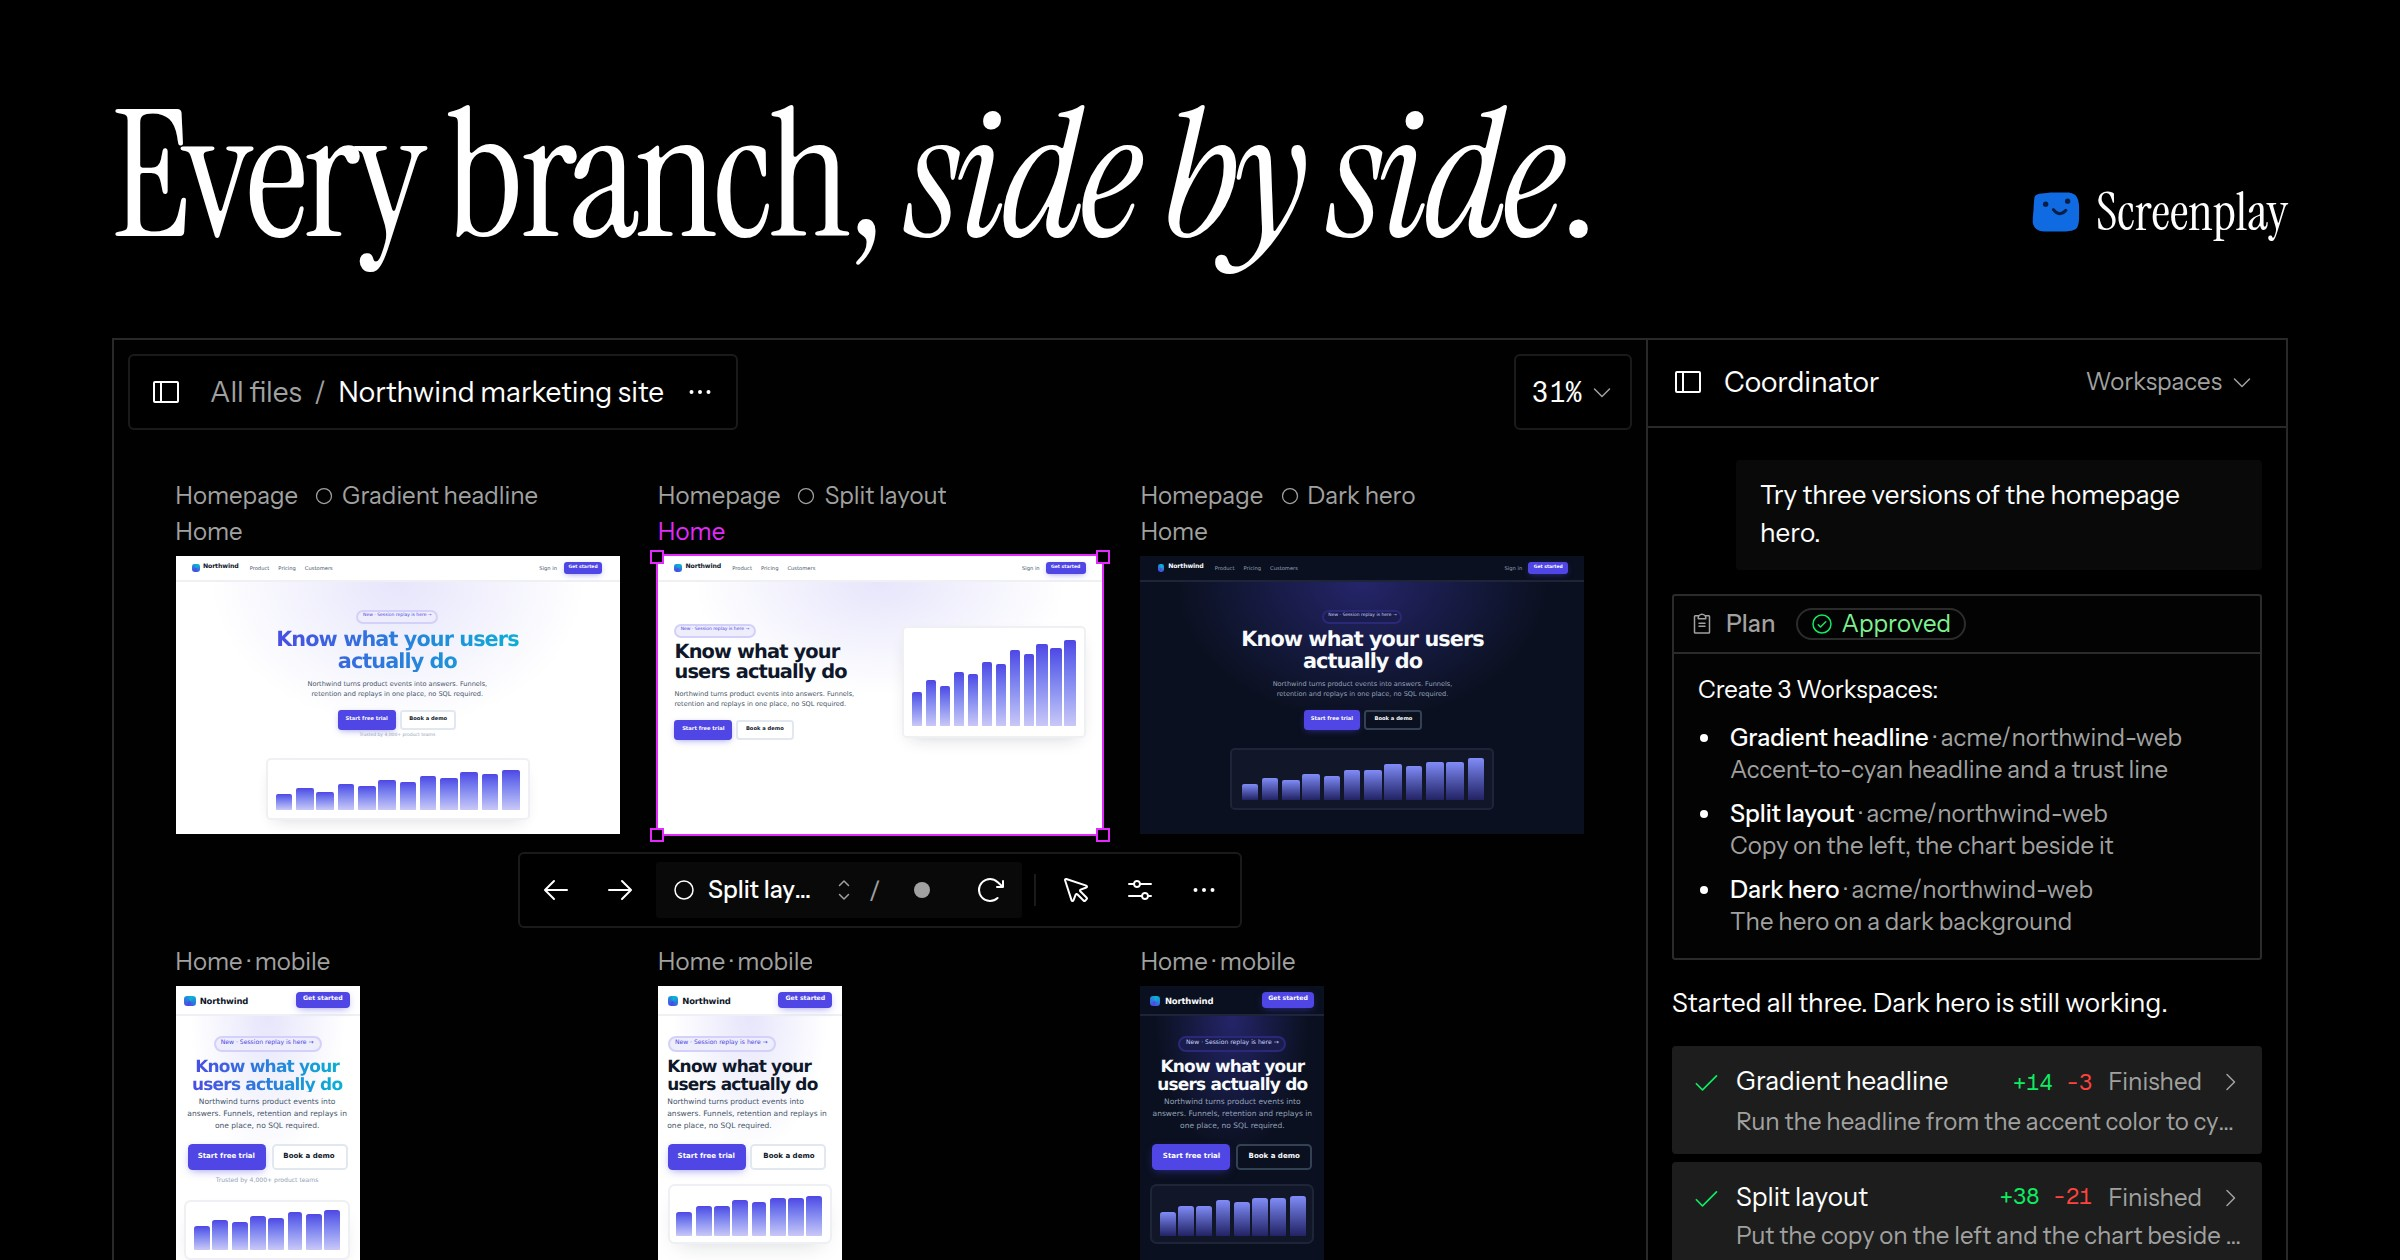
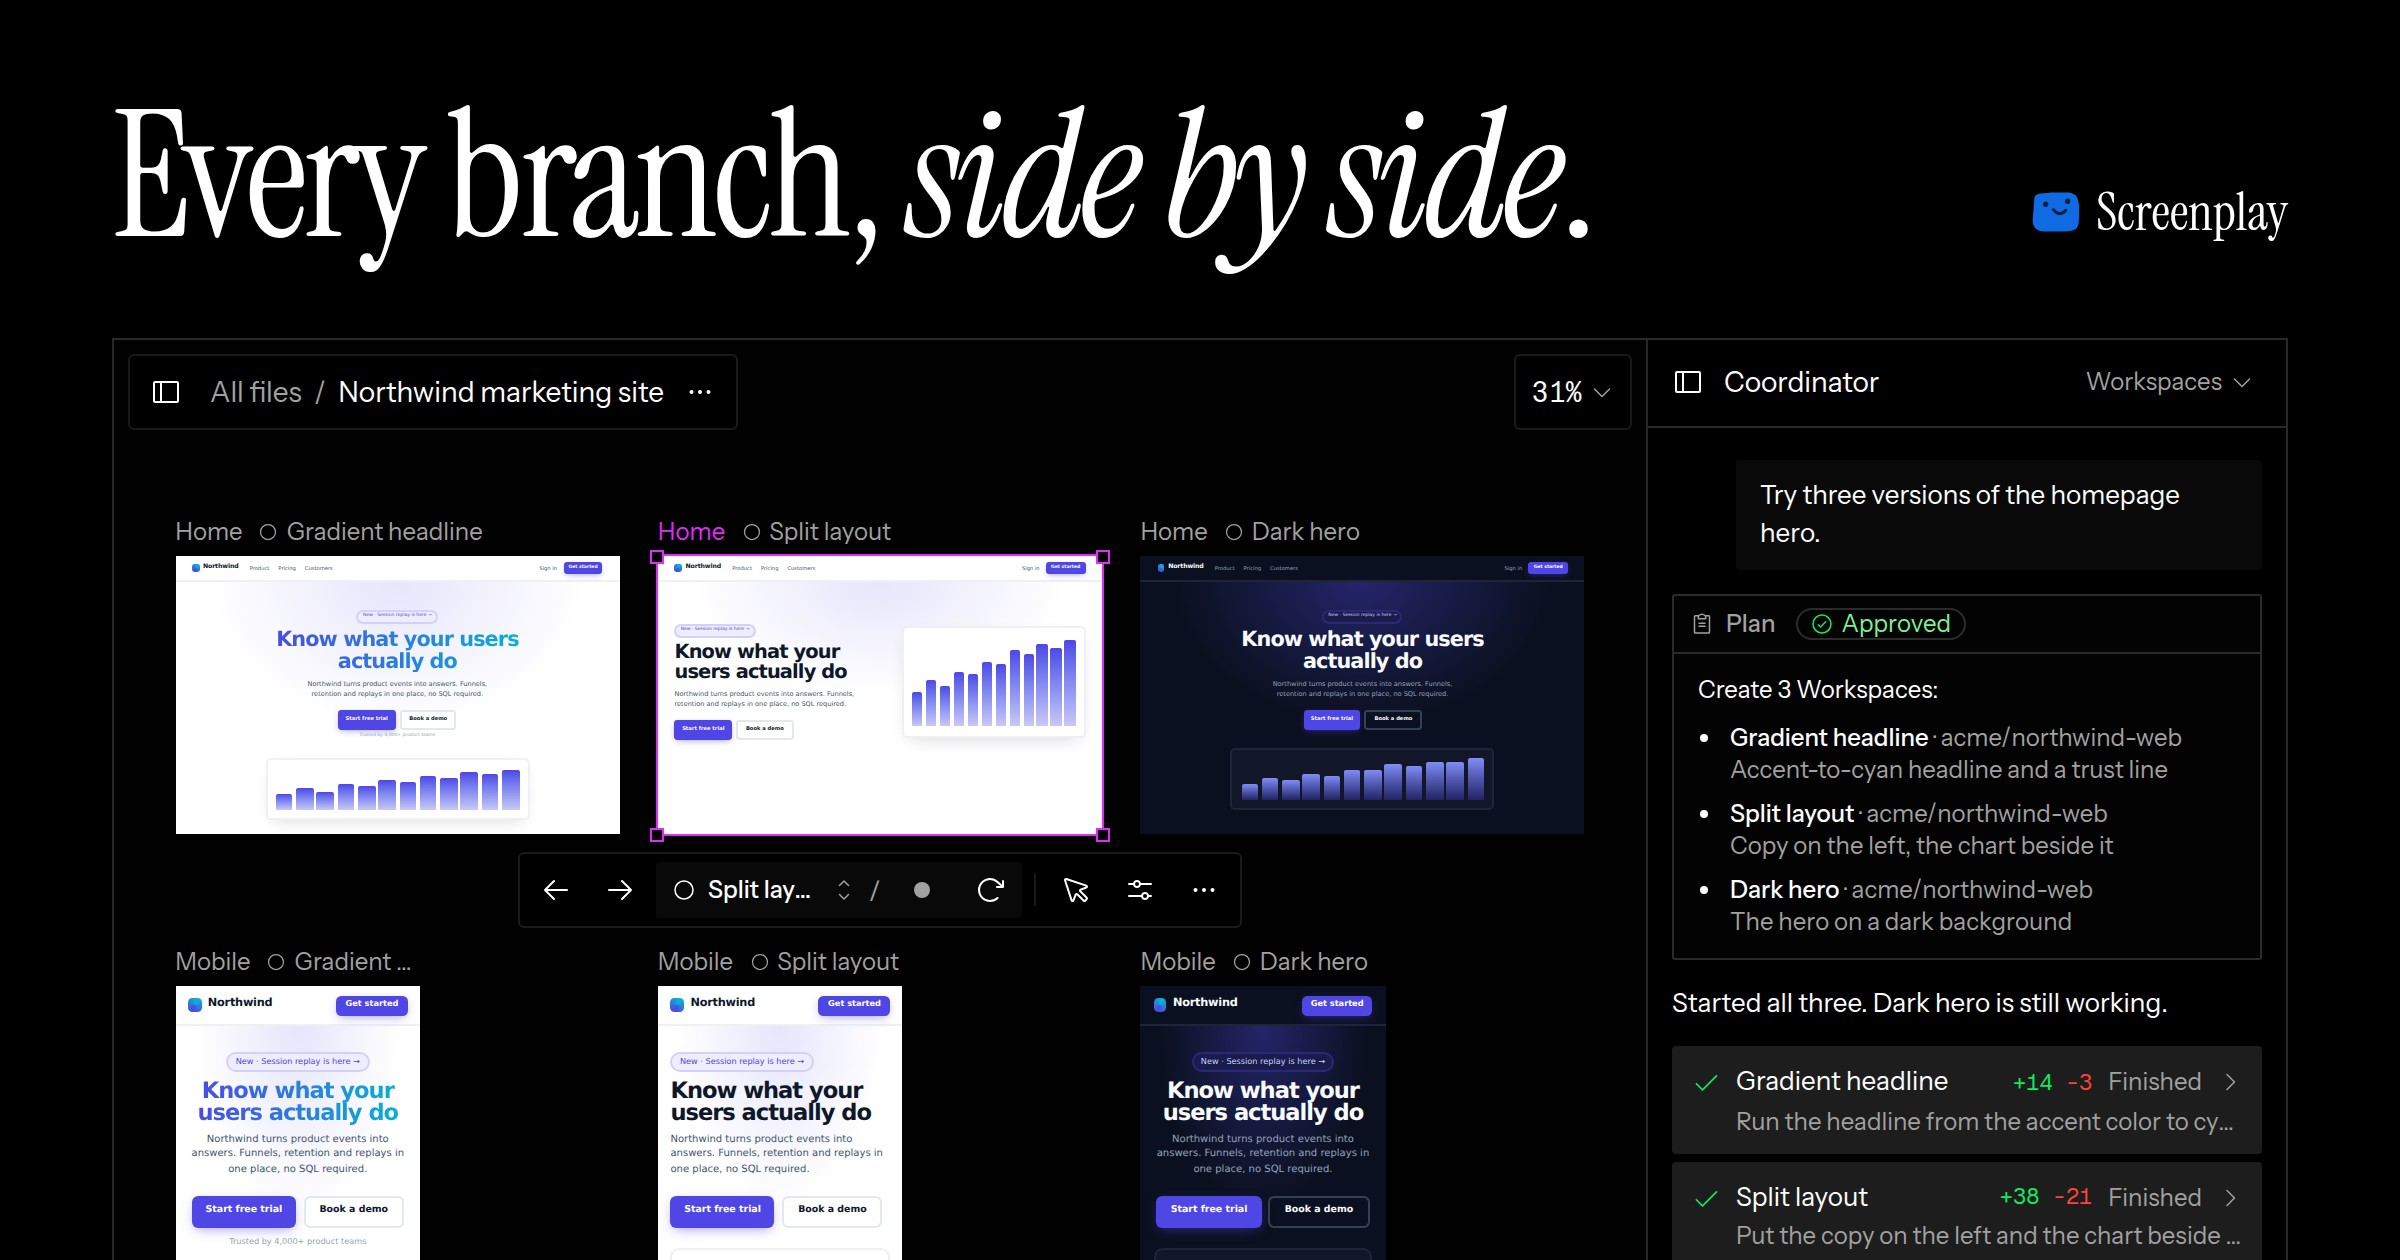
Label the homepage figures' frames the way the app does (#1238)
Frames on their own name their Workspace after their name, including the
phone frames; group titles stay only on real Groups (the step card's
desktop + mobile pairs). Phone frames widen to fit it, and drop out of
Fig. 1 on phones, where they're too narrow. Link preview recaptured.

Claude-Session: https://claude.ai/code/session_01YLh1t4qRbmoywTT2mf9EQv

diff --git a/apps/homepage/components/marketing/excerpts/canvas.tsx b/apps/homepage/components/marketing/excerpts/canvas.tsx
@@ -100,12 +100,14 @@ export function Diff({ add, del }: { add: number; del: number }) {
 
 /**
  * A frame on the canvas: its label above, the page inside. Selected, it gets
- * the canvas's magenta ring, handles and label. The first frame of a Group
- * carries the Group's title above its own.
+ * the canvas's magenta ring, handles and label. As in the app, a Group of two
+ * or more names its Workspace once, on the title over its first frame; a
+ * frame on its own names its Workspace after its name.
  */
 export function Frame({
   label,
   group,
+  workspace,
   selected,
   device = "desktop",
   className,
@@ -113,8 +115,11 @@ export function Frame({
   children,
 }: {
   label: string
-  /** The Group's title over its first frame: its name and Workspace. */
+  /** The Group's title over its first frame: its name and Workspace. Only
+   *  on a Group of two or more. */
   group?: [name: string, workspace: string]
+  /** The Workspace a frame on its own shows, after its name. */
+  workspace?: string
   selected?: boolean
   device?: "desktop" | "mobile"
   className?: string
@@ -132,13 +137,19 @@ export function Frame({
           className="bottom-full left-0 mb-6 max-w-full"
         />
       ) : null}
-      <div
-        className={cn(
-          "absolute bottom-full left-0 mb-1.5 truncate text-xs leading-none whitespace-nowrap",
-          selected ? "text-selection" : "text-muted-foreground"
-        )}
-      >
-        {label}
+      <div className="absolute bottom-full left-0 mb-1.5 flex max-w-full items-center gap-2 overflow-hidden text-xs leading-none whitespace-nowrap text-muted-foreground">
+        {/* The figures' names are short: kept whole, as a rounding error would
+            otherwise clip them to an ellipsis. */}
+        <span className={cn("shrink-0", selected && "text-selection")}>
+          {label}
+        </span>
+        {workspace ? (
+          // The name keeps its room; the Workspace truncates first.
+          <span className="flex min-w-10 shrink-[100] items-center gap-1">
+            <WorkspaceGlyph className="size-2.5" />
+            <span className="truncate">{workspace}</span>
+          </span>
+        ) : null}
       </div>
       <div
         className={cn(
@@ -522,14 +533,15 @@ const columns =
 /**
  * The hero's figure: one ask to the Coordinator and its three Workspaces,
  * side by side on the canvas, desktop over phone, with the selected one's
- * bar. The chat drops out on narrow screens, leaving the canvas.
+ * bar. The chat drops out on narrow screens, leaving the canvas, and phones
+ * drop the phone frames, too narrow there to name their Workspace.
  */
 export function CanvasExcerpt() {
   return (
     <div
       role="img"
       aria-label="The Screenplay canvas: three versions of the Northwind homepage hero running side by side, each in its own Workspace, with the Coordinator chat that started them on the right."
-      className="flex aspect-square w-full overflow-hidden border border-border bg-background text-foreground sm:aspect-[16/10] lg:aspect-[16/9.4]"
+      className="flex aspect-[4/3] w-full overflow-hidden border border-border bg-background text-foreground sm:aspect-[16/10] lg:aspect-[16/9.4]"
     >
       <div
         className={cn(
@@ -551,7 +563,7 @@ export function CanvasExcerpt() {
           <Frame
             key={v.title}
             label="Home"
-            group={["Homepage", v.title]}
+            workspace={v.title}
             selected={i === 1}
             className={cn(i === 2 && "max-sm:hidden")}
             style={{
@@ -577,10 +589,12 @@ export function CanvasExcerpt() {
         {versions.map((v, i) => (
           <Frame
             key={v.title}
-            label="Home · mobile"
+            label="Mobile"
+            workspace={v.title}
             device="mobile"
-            className={cn(i === 2 && "max-sm:hidden")}
-            style={{ left: `var(--l${i})`, top: "var(--phone)", width: "12%" }}
+            className="max-sm:hidden"
+            // Wide enough for its name and most of its Workspace's.
+            style={{ left: `var(--l${i})`, top: "var(--phone)", width: "16%" }}
           >
             <Northwind device="mobile" version={v.version} />
           </Frame>
@@ -607,7 +621,7 @@ export function FrameExcerpt() {
         <Frame
           key={v.title}
           label="Home"
-          group={["Homepage", v.title]}
+          workspace={v.title}
           selected={i === 0}
           style={{ left: i ? "52%" : "4%", top: "var(--top)", width: "44%" }}
         >

diff --git a/apps/homepage/components/marketing/excerpts/team.tsx b/apps/homepage/components/marketing/excerpts/team.tsx
@@ -180,7 +180,7 @@ export function TeamExcerpt() {
         <PeoplePill />
         <Frame
           label="Home"
-          group={["Homepage", "Hero gradient & trust line"]}
+          workspace="Hero gradient & trust line"
           selected
           style={{ left: 32, top: 84, width: 400 }}
         >
@@ -193,7 +193,7 @@ export function TeamExcerpt() {
         />
         <Frame
           label="Home"
-          group={["Homepage", "Main"]}
+          workspace="Main"
           style={{ left: 464, top: 84, width: 400 }}
         >
           <Northwind />

diff --git a/apps/homepage/components/marketing/excerpts/steps.tsx b/apps/homepage/components/marketing/excerpts/steps.tsx
@@ -117,7 +117,11 @@ export function CreateWorkspacesExcerpt() {
   )
 }
 
-/** Step 3: two of the versions of the same page, side by side. */
+/**
+ * Step 3: two of the versions of the same page, side by side. Each version is
+ * a Group of its desktop and mobile frames, so its title names the Workspace
+ * once for both.
+ */
 export function CompareExcerpt() {
   const [split, dark] = [versions[1], versions[2]]
   return (
